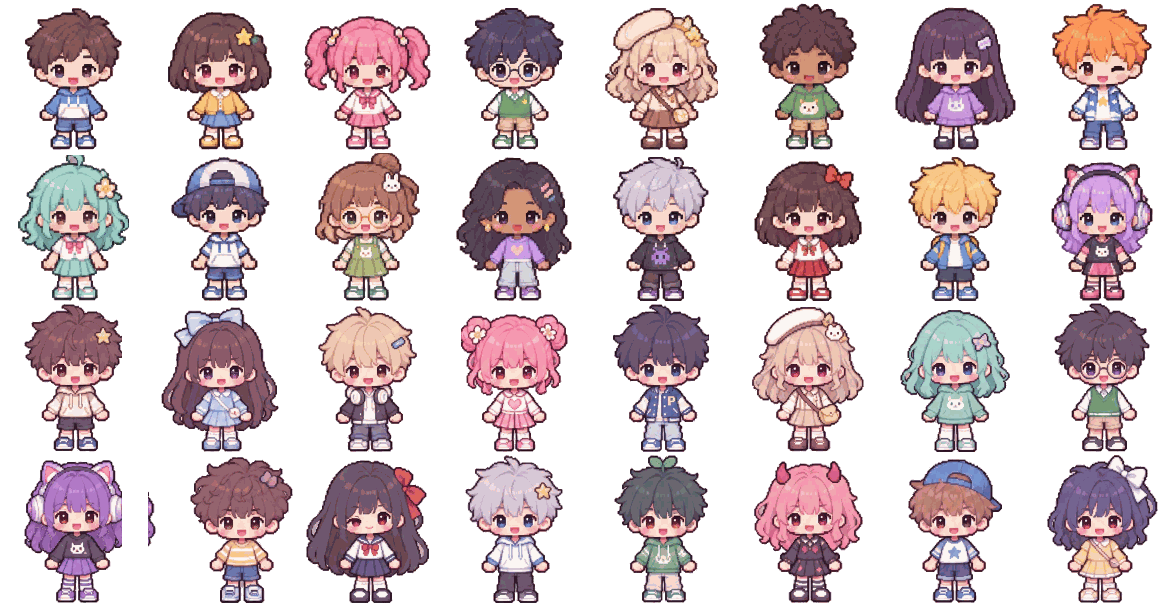
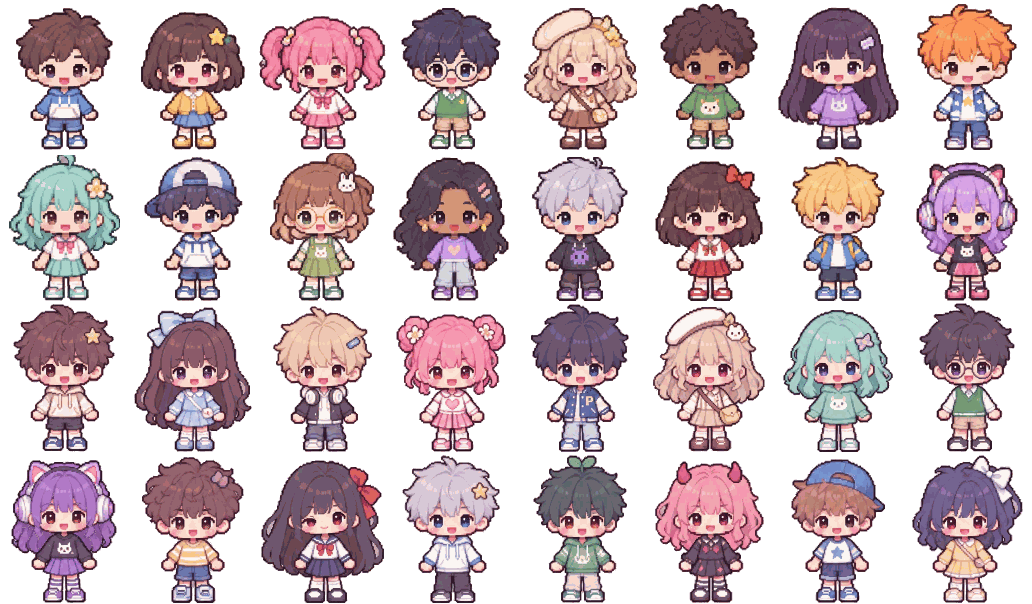
꼬마 탐험대 공원: 새 캐릭터 16명 그림 다듬기 (고양이 헤드폰 친구 다시 자르기)
Claude-Session: https://claude.ai/code/session_01GaQn7MZBC3k4EEX7cEU7Dz

Changed region(s): [[0.0, 0.0, 0.9922, 1.0]]

diff --git a/study/kkoma-park/chars.js b/study/kkoma-park/chars.js
@@ -52,7 +52,7 @@ export function loadChars() {
   return ready;
 }
 export const charsReady = () => !!META;
-export const CW = 147; export const CH = 151; // 캐릭터 한 칸 (presets.json 의 cw·ch, 발이 칸 바닥에 닿는다)
+export const CW = 129; export const CH = 151; // 캐릭터 한 칸 (presets.json 의 cw·ch, 발이 칸 바닥에 닿는다)
 
 // look → 캔버스. view: 'front' 또는 'sideL' 이면 왼쪽을 보도록 뒤집는다 (그 밖에는 그대로)
 const cache = new Map();
